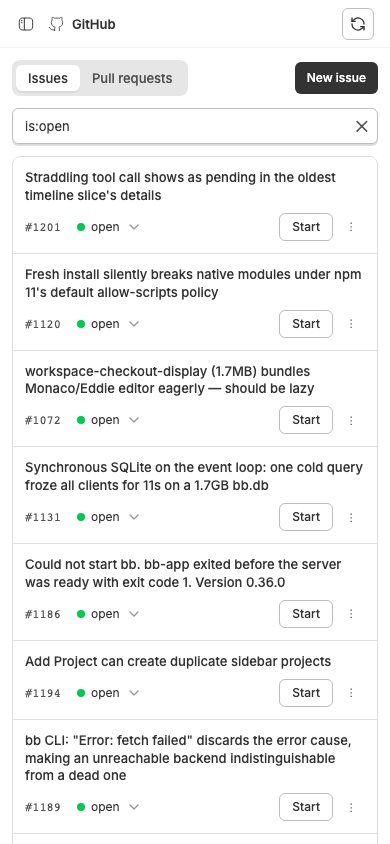
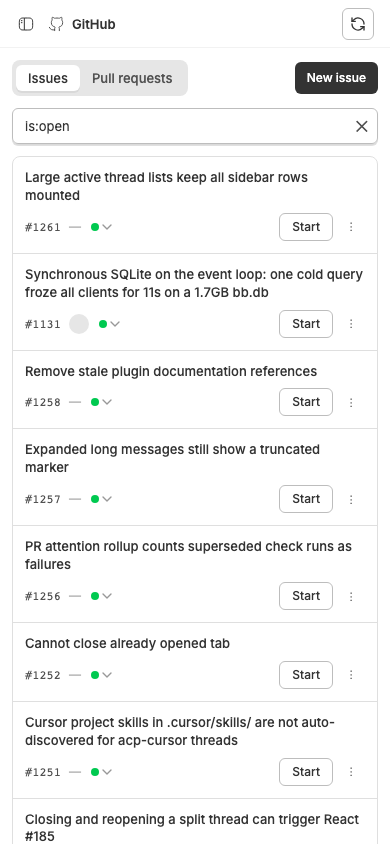
fix(github): refine compact issue rows

Changed region(s): [[0.0615, 0.4313, 0.9231, 1.0], [0.0615, 0.3081, 0.9231, 0.4005], [0.0615, 0.1848, 0.8615, 0.2773]]

diff --git a/plugins/github/app.tsx b/plugins/github/app.tsx
@@ -801,11 +801,11 @@ function FilterBar({
 
 // Shared column widths so the header row lines up with item rows.
 const COL = {
-  id: "shrink-0 sm:w-12",
-  assignee: "hidden w-28 shrink-0 lg:block",
-  status: "shrink-0 sm:w-28",
-  updated: "hidden w-16 shrink-0 text-right md:block",
-  actions: "ml-auto flex shrink-0 items-center justify-end gap-1 sm:ml-0 sm:w-32",
+  id: "shrink-0 @[52rem]:w-12",
+  assignee: "flex shrink-0 @[52rem]:w-28",
+  status: "shrink-0 @[52rem]:w-28",
+  updated: "hidden w-16 shrink-0 text-right @[52rem]:block",
+  actions: "ml-auto flex shrink-0 items-center justify-end gap-1 @[52rem]:ml-0 @[52rem]:w-32",
 } as const;
 
 function AssigneeCell({ assignees }: { assignees: string[] }) {
@@ -844,11 +844,13 @@ function StatusCell({ item }: { item: Item }) {
         <Button
           size="sm"
           variant="ghost"
-          className="h-7 gap-1.5 px-2 text-xs font-normal"
+          className="size-7 gap-0 p-0 text-xs font-normal @[52rem]:h-7 @[52rem]:w-auto @[52rem]:gap-1.5 @[52rem]:px-2"
           onClick={(event) => event.stopPropagation()}
+          aria-label={`Change issue #${item.number} state, currently ${item.state.toLowerCase()}`}
+          aria-busy={pending}
         >
           <StateDot kind="issue" state={item.state} />
-          {pending ? "…" : item.state.toLowerCase()}
+          <span className="hidden @[52rem]:inline">{pending ? "…" : item.state.toLowerCase()}</span>
           <ChevronDownIcon />
         </Button>
       </DropdownMenuTrigger>
@@ -942,30 +944,30 @@ function ItemRow({
   const busy = spawningKey === `${item.repo}#${item.number}`;
   return (
     <div
-      className="grid cursor-pointer grid-cols-1 gap-y-2 px-3 py-3 hover:bg-accent/50 sm:flex sm:items-center sm:gap-3 sm:py-2"
+      className="grid cursor-pointer grid-cols-1 gap-y-2 px-3 py-3 hover:bg-accent/50 @[52rem]:flex @[52rem]:items-center @[52rem]:gap-3 @[52rem]:py-2"
       onClick={onOpen}
     >
-      <span className="flex min-w-0 flex-col items-start gap-1.5 sm:order-2 sm:flex-1 sm:flex-row sm:items-center sm:gap-2">
-        <span className="min-w-0 flex-1 line-clamp-3 text-sm font-medium leading-snug text-foreground sm:line-clamp-1 sm:leading-normal">
+      <span className="flex min-w-0 flex-col items-start gap-1.5 @[52rem]:order-2 @[52rem]:flex-1 @[52rem]:flex-row @[52rem]:items-center @[52rem]:gap-2">
+        <span className="min-w-0 flex-1 line-clamp-3 text-sm font-medium leading-snug text-foreground @[52rem]:line-clamp-1 @[52rem]:leading-normal">
           {item.title}
         </span>
         <LabelChips labels={item.labels} className="hidden shrink-0 xl:flex" />
         <ThreadPills links={links} />
       </span>
-      <span className="flex min-w-0 items-center gap-2 sm:contents">
-        <span className={`${COL.id} font-mono text-xs text-muted-foreground sm:order-1`}>
+      <span className="flex min-w-0 items-center gap-2 @[52rem]:contents">
+        <span className={`${COL.id} font-mono text-xs text-muted-foreground @[52rem]:order-1`}>
           #{item.number}
         </span>
-        <span className={`${COL.assignee} text-xs text-muted-foreground sm:order-3`}>
+        <span className={`${COL.assignee} text-xs text-muted-foreground @[52rem]:order-3`}>
           <AssigneeCell assignees={item.assignees} />
         </span>
-        <span className={`${COL.status} sm:order-4`}>
+        <span className={`${COL.status} @[52rem]:order-4`}>
           <StatusCell item={item} />
         </span>
-        <span className={`${COL.updated} text-xs text-muted-foreground sm:order-5`}>
+        <span className={`${COL.updated} text-xs text-muted-foreground @[52rem]:order-5`}>
           {relativeTime(item.updatedAt)}
         </span>
-        <span className={`${COL.actions} sm:order-6`}>
+        <span className={`${COL.actions} @[52rem]:order-6`}>
           <Button
             size="sm"
             variant="outline"
@@ -991,23 +993,23 @@ function TableSkeleton() {
       {[0, 1, 2, 3].map((row) => (
         <div
           key={row}
-          className="grid grid-cols-1 gap-y-3 px-3 py-3 sm:flex sm:items-center sm:gap-3"
+          className="grid grid-cols-1 gap-y-3 px-3 py-3 @[52rem]:flex @[52rem]:items-center @[52rem]:gap-3"
         >
-          <Skeleton className="h-3 w-4/5 sm:order-2 sm:flex-1" />
-          <span className="flex items-center gap-2 sm:contents">
-            <span className={`${COL.id} sm:order-1`}>
+          <Skeleton className="h-3 w-4/5 @[52rem]:order-2 @[52rem]:flex-1" />
+          <span className="flex items-center gap-2 @[52rem]:contents">
+            <span className={`${COL.id} @[52rem]:order-1`}>
               <Skeleton className="h-3 w-10" />
             </span>
-            <span className={`${COL.assignee} sm:order-3`}>
+            <span className={`${COL.assignee} @[52rem]:order-3`}>
+              <Skeleton className="size-5 rounded-full @[52rem]:h-3 @[52rem]:w-24" />
+            </span>
+            <span className={`${COL.status} @[52rem]:order-4`}>
               <Skeleton className="h-3 w-24" />
             </span>
-            <span className={`${COL.status} sm:order-4`}>
-              <Skeleton className="h-3 w-24" />
-            </span>
-            <span className={`${COL.updated} sm:order-5`}>
+            <span className={`${COL.updated} @[52rem]:order-5`}>
               <Skeleton className="ml-auto h-3 w-12" />
             </span>
-            <span className={`${COL.actions} sm:order-6`}>
+            <span className={`${COL.actions} @[52rem]:order-6`}>
               <Skeleton className="h-7 w-20" />
             </span>
           </span>
@@ -1063,8 +1065,8 @@ function ItemsTable({
   }
 
   return (
-    <div className="overflow-hidden rounded-lg border border-border bg-card">
-      <div className="hidden items-center gap-3 border-b border-border bg-muted/50 px-3 py-2 text-[11px] font-medium uppercase tracking-wider text-muted-foreground sm:flex">
+    <div className="@container overflow-hidden rounded-lg border border-border bg-card">
+      <div className="hidden items-center gap-3 border-b border-border bg-muted/50 px-3 py-2 text-[11px] font-medium uppercase tracking-wider text-muted-foreground @[52rem]:flex">
         <span className={COL.id}>ID</span>
         <span className="min-w-0 flex-1">Title</span>
         <span className={COL.assignee}>Assignee</span>
